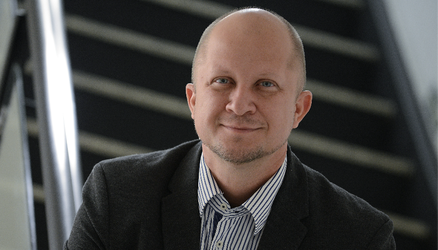
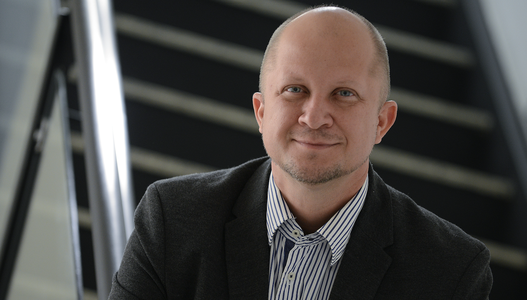
updates

diff --git a/images/_icon.py b/images/_icon.py
@@ -11,7 +11,7 @@ def main():
 
     # Define resize tasks
     resize_tasks = [
-        {"pattern": "*-banner.png", "size": (None, 250)},
+        {"pattern": "*-banner.png", "size": (None, 300)},
         {"pattern": "*-headshot.png", "size": (None, 200)},  # Maintain aspect ratio
     ]
 
